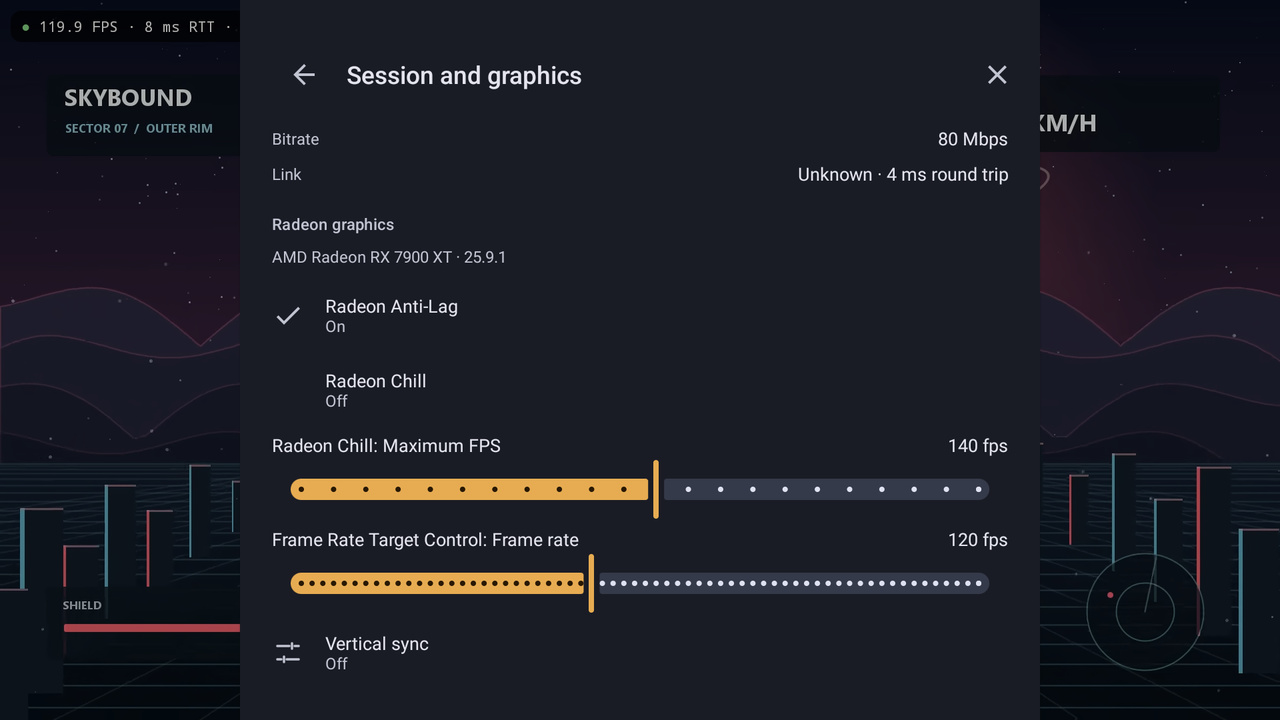
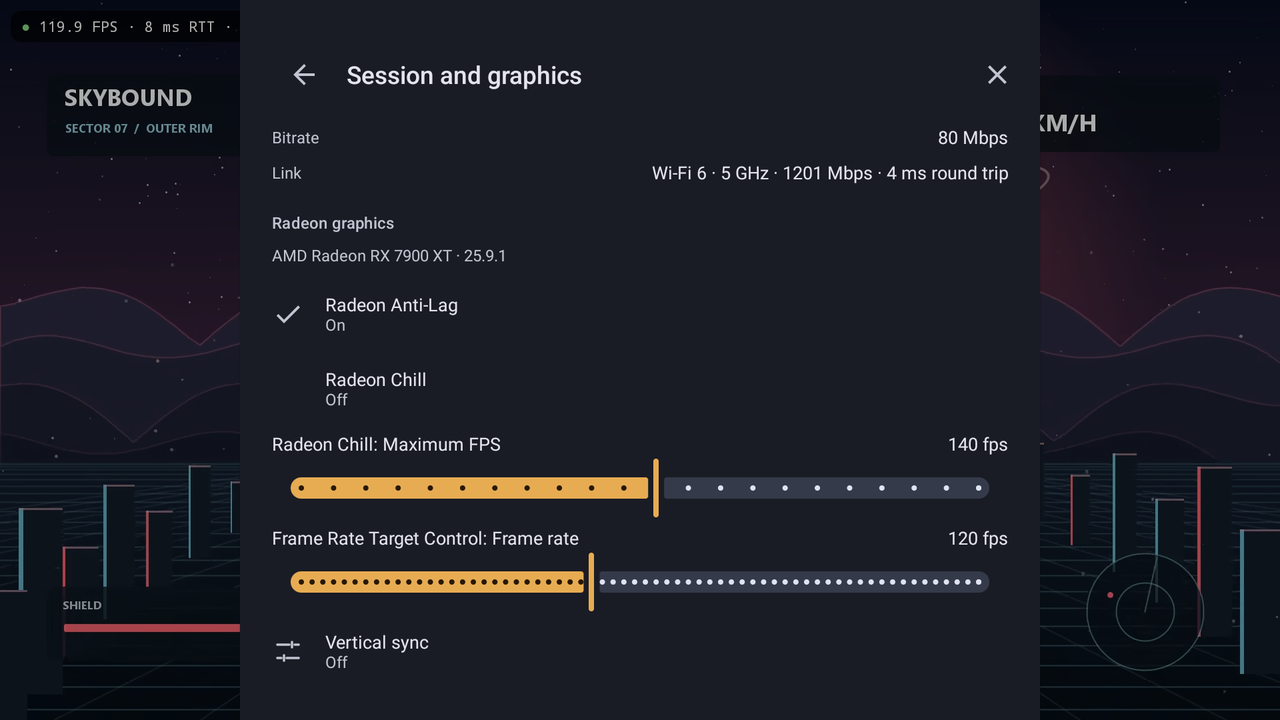
docs(readme): demo stats at Snapdragon 8 Elite decode times, retake stream shots
The demo now scripts decode at about 0.55 ms and gives the Session page a
Wi-Fi 6, 5 GHz, 1201 Mbps link. Retake stream-stats.png and
stream-menu-radeon.png with those values, and handheld-home.png without the
Android status bar.

diff --git a/app/src/debug/java/com/limelight/demo/DemoMetrics.java b/app/src/debug/java/com/limelight/demo/DemoMetrics.java
@@ -19,7 +19,8 @@ final class DemoMetrics {
 
     static void update(Context context, PerfOverlayListener listener, long tick) {
         float fps = 119.9f + (float) Math.sin(tick * 0.7) * 0.04f;
-        float decode = 6.0f + (float) Math.sin(tick * 0.5) * 0.3f;
+        // About what a Snapdragon 8 Elite reports for a 1080p frame (docs/devices.md).
+        float decode = 0.55f + (float) Math.sin(tick * 0.5) * 0.05f;
         String video = context.getString(R.string.perf_overlay_streamdetails, "1920x1080", 120f) + '\n' +
                 context.getString(R.string.perf_overlay_incomingfps, 120f) + '\n' +
                 context.getString(R.string.perf_overlay_shownfps, String.format(Locale.ROOT, "%.2f FPS", fps)) +
@@ -32,8 +33,8 @@ final class DemoMetrics {
                 context.getString(R.string.perf_overlay_low_latency, context.getString(R.string.perf_overlay_low_latency_android_vendor)) +
                 "\nGPU: system driver (scripted)\nSample playback: 1080p60 SDR\n" +
                 MediaCodecDecoderRenderer.formatLatencyOverlay(context, new double[][] {
-                        {600, 0.4, 0.8, 1.2}, {600, decode, 7.0, 8.0}, {600, 1.2, 1.8, 2.5},
-                        {600, 7.6, 9.4, 11.1}, {600, 3.1, 3.8, 4.2}
+                        {600, 0.4, 0.8, 1.2}, {600, decode, 0.8, 1.1}, {600, 1.2, 1.8, 2.5},
+                        {600, 2.2, 3.1, 4.0}, {600, 3.1, 3.8, 4.2}
                 });
         CharSequence statistics = PerformanceOverlay.statisticsText(context, "1920×1080 · " + DemoSample.label(sample),
                 fps, 120, 38.6f, 0.1f, 8, 1, 3.1f, -1, decode, 1.2f, false);

diff --git a/app/src/debug/java/com/limelight/demo/DemoGameActivity.java b/app/src/debug/java/com/limelight/demo/DemoGameActivity.java
@@ -267,7 +267,8 @@ public final class DemoGameActivity extends Activity implements SurfaceHolder.Ca
         options.gameControls = true;
         options.nativeHostControl = DemoConsole.hostControl;
         options.connection = new com.limelight.console.ConnectionInfo(host.name, MoonBridge.VIDEO_FORMAT_H265_MAIN10,
-                SAMPLE_WIDTH, SAMPLE_HEIGHT, 120, 80_000, null, 4);
+                SAMPLE_WIDTH, SAMPLE_HEIGHT, 120, 80_000, new com.limelight.utils.WifiFacts(com.limelight.utils.WifiFacts.Link.WIFI,
+                        -45, 5745, 160, 1201, 1201, 1201, 6), 4);
         return options;
     }
 
